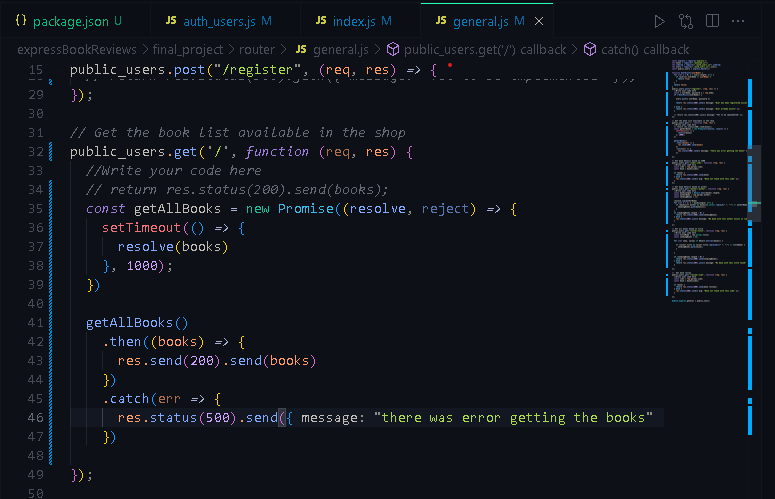
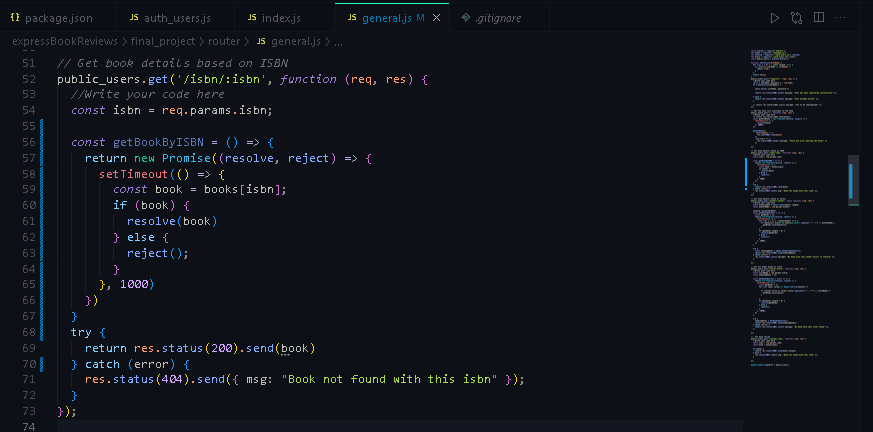
se

diff --git a/final_project/router/general.js b/final_project/router/general.js
@@ -52,11 +52,22 @@ public_users.get('/', function (req, res) {
 public_users.get('/isbn/:isbn', function (req, res) {
   //Write your code here
   const isbn = req.params.isbn;
-  const book = books[isbn];
 
-  if (book) {
+  const getBookByISBN = () => {
+    return new Promise((resolve, reject) => {
+      setTimeout(() => {
+        const book = books[isbn];
+        if (book) {
+          resolve(book)
+        } else {
+          reject();
+        }
+      }, 1000)
+    })
+  }
+  try {
     return res.status(200).send(book)
-  } else {
+  } catch (error) {
     res.status(404).send({ msg: "Book not found with this isbn" });
   }
 });
